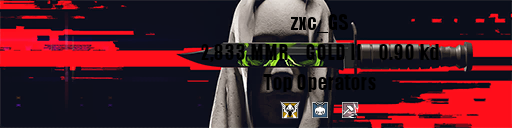
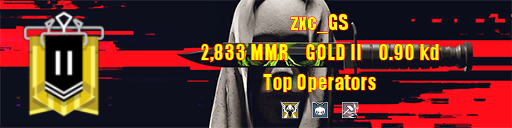
dev

diff --git a/commands/bage.js b/commands/bage.js
@@ -1,0 +1,149 @@
+const { MessageActionRow, MessageButton, MessageAttachment } = require("discord.js");
+const fs = require('fs');
+var config = require('../config.json');
+const fetch = require('node-fetch');
+const { SlashCommandBuilder } = require('@discordjs/builders');
+
+module.exports = {
+	data: new SlashCommandBuilder()
+		.setName('bage')
+		.setDescription('bage description')
+        .addSubcommandGroup(scg => 
+            scg
+                .setName('list')
+                .setDescription('Описание')
+                .addSubcommand(sc =>
+                    sc
+                        .setName('show')
+                        .setDescription('Выводит список доступных фонов'))
+                .addSubcommand(sc =>
+                    sc
+                        .setName('add')
+                        .setDescription('Добавляет фон в список')
+                        .addStringOption(option =>
+                            option
+                                .setName('ссылка')
+                                .setDescription('Ссылка на картинку (png/jpg/gif)')
+                                .setRequired(true))
+                )
+        )
+        .addSubcommandGroup(scg => 
+            scg
+                .setName('set')
+                .setDescription('Описание')
+                .addSubcommand(sc =>
+                    sc
+                        .setName('color')
+                        .setDescription('Устанавливает цвет текста')
+                        .addStringOption(option =>
+                            option
+                                .setName('цвет')
+                                .setDescription('Цвет текста (на английском)')
+                                .setRequired(true)))
+                .addSubcommand(sc =>
+                    sc
+                        .setName('border')
+                        .setDescription('Устанавливает цвет обводки')
+                        .addStringOption(option =>
+                            option
+                                .setName('цвет')
+                                .setDescription('Цвет обводки текста (на английском)')
+                                .setRequired(true)))
+                .addSubcommand(sc =>
+                    sc
+                        .setName('side')
+                        .setDescription('С какой стороны расположить изображение ранга')
+                        .addStringOption(option =>
+                            option
+                                .setName('сторона')
+                                .setDescription('Цвет текста (на английском)')
+                                .setRequired(true)
+                                .addChoice('left', 'left')
+                                .addChoice('right', 'right')))
+        ),
+	async execute(interaction) {
+        if (interaction.options.getSubcommandGroup() === "list")
+        {
+            if (interaction.options.getSubcommand() === "show")
+            {
+                if (!fs.existsSync('./source/bages/available') || fs.readdirSync('./source/bages/available').length < 1)
+                    return interaction.reply("Список фонов пуст");
+                const bages = fs.readdirSync('./source/bages/available');
+                await interaction.reply({content: "Список доступных фонов:"});
+                for (let i of bages)
+                {
+                    const row = new MessageActionRow()
+                        .addComponents(
+                            new MessageButton()
+                                .setCustomId(i)
+                                .setLabel('Выбрать')
+                                .setStyle('PRIMARY'),
+                        )
+                    await interaction.channel.send({content: i.slice(0, i.lastIndexOf('.')), files: [`./source/bages/available/${i}`], components: [row]});
+                }
+            }
+            else if (interaction.options.getSubcommand() === "add")
+            {
+                let indexes = fs.readdirSync('./source/bages/available/').map(file => file.match(/\d+/)[0]);
+                let max_ind = Math.max(...indexes);
+                let name = `ui_playercard_${max_ind + 1}`;
+                let url = interaction.options.getString('ссылка');
+                let type;
+                if (url.includes('.gif') || url.includes('.png') || url.includes('.jpg') || url.includes('.jpeg'))
+                    type = url.slice(url.lastIndexOf("."));
+                /* if (url.includes('.gif'))
+                    type = '.gif';
+                else if (url.includes('.png'))
+                    type =  '.png';
+                else if (url.includes('.jpg'))
+                    type = '.jpg';
+                else if (url.includes('.jpeg'))
+                    type = '.jpeg'; */
+                else
+                    return await interaction.reply({content: 'Некорректная ссылка! Ссылка содержит .gif / .png / .jpg / .jpeg ?', ephemeral: true});
+                await fetch(url).then(res => res.body.pipe(fs.createWriteStream(`./source/bages/available/${name}${type}`)));
+                await interaction.reply({content: `Фон ${name} успешно добавлен.`, ephemeral: true});
+            }
+        }
+        else if (interaction.options.getSubcommandGroup() === "set")
+        {
+            if (interaction.options.getSubcommand() === "color")
+            {
+                let color = interaction.options.getString('цвет');
+                console.log(color);
+                let user_id = interaction.user.id;
+                for (let i in config.guilds[0].players)
+                {
+                    if (config.guilds[0].players[i].discord_id === user_id)
+                    config.guilds[0].players[i].bage.text_color = color;
+                }
+                fs.writeFileSync('./config.json', JSON.stringify(config, null, '\t'));
+                await interaction.reply({content: `Вы установили цвет текста на ${color}.`, ephemeral: true})
+            }
+            else if (interaction.options.getSubcommand() === "border")
+            {
+                let color = await interaction.options.getString('цвет');
+                let user_id = interaction.user.id;
+                for (let i in config.guilds[0].players)
+                {
+                    if (config.guilds[0].players[i].discord_id === user_id)
+                    config.guilds[0].players[i].bage.text_border = color;
+                }
+                fs.writeFileSync('./config.json', JSON.stringify(config, null, '\t'))
+                await interaction.reply({content: `Вы установили цвет рамки на ${color}.`, ephemeral: true})
+            }
+            else if (interaction.options.getSubcommand() === "side")
+            {
+                let _side = interaction.options.getString('сторона')
+                let user_id = interaction.user.id
+                for (let i in config.guilds[0].players)
+                {
+                    if (config.guilds[0].players[i].discord_id === user_id)
+                    config.guilds[0].players[i].bage.rank_image_side = _side
+                }
+                fs.writeFileSync('./config.json', JSON.stringify(config, null, '\t'));
+                await interaction.reply({content: `Вы изменили сторону изображения ранга на ${_side}.`, ephemeral: true})
+            }
+        }
+	},
+};

diff --git a/modules/statistics.js b/modules/statistics.js
@@ -7,7 +7,6 @@ const fetch = require('node-fetch');
 const config = require('../config.json');
 const GIFEncoder = require('gif-encoder-2');
 const gifFrames = require('gif-frames');
-const { discord_token } = require('../secret.json');
 let global_client;
 // Canvas.registerFont('./source/fonts/Montserrat-Regular.ttf', { family: 'Montserrat_Regular' });
 
@@ -23,11 +22,9 @@ function GetStatistics(client)
                 GetProfiles(uplay_names[i], function(stats) {
                     map.set(uplay_names[i], stats);
                     MakeCanvas(map.get(uplay_names[i]), async function(_name) {
-                        console.log(_name)
                         // let file = await fs.readdirSync(`./source/bages/current`).filter(file => file.startsWith(uplay_names[i]))[0];
                         let attachment = new MessageAttachment(`./source/bages/current/${_name}`);
                         await client.channels.cache.get(config.guilds[0].channels.statistics).send({ files: [attachment] });
-                        console.log('bg sended')
                     })
                 })
             }
@@ -94,8 +91,7 @@ async function MakeCanvas(map, callback)
     const background_file = await fs.readdirSync(`./source/bages/available`).filter(file => file.startsWith(background_name))[0];
     const background_type = background_file.slice(background_file.lastIndexOf('.') + 1);
     const background_default = await fs.readdirSync(`./source/bages/available`).filter(file => file.startsWith(`ui_playercard_0`))[0];
-    console.log(background_file, background_type);
-    PreloadResources(map, async function() {
+    await PreloadResources(map, async function() {
         if (background_type == "png")
         {
             const width = 512, height = 128;
@@ -123,7 +119,12 @@ async function MakeCanvas(map, callback)
             // ctx.font = '20px';
             // ctx.font = '20px Courier';
             ctx.font = '20px Impact';
-            ctx.fillStyle = "black";
+            ctx.fillStyle = config.guilds[0].players.find(p => p.uplay_name == map.name).bage.text_color || "black";
+            // Обводка текста
+            ctx.strokeStyle = config.guilds[0].players.find(p => p.uplay_name == map.name).bage.text_border || "transparent";
+            ctx.strokeText(name, (width - rank_image_size ) / 2 - ctx.measureText(name).width / 2, 30);
+            ctx.strokeText(statistic, (width - rank_image_size) / 2 - ctx.measureText(statistic).width / 2, 60);
+            ctx.strokeText(ops_header, (width - rank_image_size) / 2 - ctx.measureText(ops_header).width / 2, 90);
             // Сам текст
             ctx.fillText(name, (width - rank_image_size) / 2 - ctx.measureText(name).width / 2, 30);
             ctx.fillText(statistic, (width - rank_image_size) / 2 - ctx.measureText(statistic).width / 2, 60);
@@ -138,9 +139,7 @@ async function MakeCanvas(map, callback)
         else
         {
             CreateFrames(background_file, function() {
-                console.log("frames created")
                 MakeAGif(map, function() {
-                    console.log("gif created");
                     DeleteFrames(function() {
                         return callback(`${map.name}.${background_type}`);
                     })
@@ -197,8 +196,7 @@ async function MakeAGif(map, callback)
     const third_op = await Canvas.loadImage(`./source/operators/${map.ops[2].slice(map.ops[2].lastIndexOf('/') + 1, map.ops[2].lastIndexOf('.'))}.png`);
     // ctx.font = '20px Comfortaa-Bold';
     ctx.font = '20px Impact';
-    ctx.fillStyle = "black";
-    // ctx.fillStyle = config.bagesSettings[map.name].color || config.bagesSettings.default.color
+    ctx.fillStyle = config.guilds[0].players.find(p => p.uplay_name == map.name).bage.text_color || "black";
 
     let sorted = [];
     let files = fs.readdirSync('./source/bages/frames/').filter(file => file.endsWith('.png'));
@@ -209,17 +207,16 @@ async function MakeAGif(map, callback)
     for (let i of files)
     {
         const image = await Canvas.loadImage(`./source/bages/frames/${i}`);
-        console.log(image);
         ctx.drawImage(image, 0, 0, width, height);
         if (rank_position == "right")
             await ctx.drawImage(rank_image, width - rank_image_size, 0, rank_image_size, rank_image_size);
         else if (rank_position == "left")
             await ctx.drawImage(rank_image, 0, 0, -rank_image_size, -rank_image_size);
         // Обводка текста
-        /* ctx.strokeStyle = config.bagesSettings[name].border || config.bagesSettings.default.border
-        ctx.strokeText(name, (width - rank_image_size ) / 2 - ctx.measureText(name).width / 2, 30)
-        ctx.strokeText(statistic, (width - rank_image_size) / 2 - ctx.measureText(statistic).width / 2, 60)
-        ctx.strokeText(ops_header, (width - rank_image_size) / 2 - ctx.measureText(ops_header).width / 2, 90) */
+        ctx.strokeStyle = config.guilds[0].players.find(p => p.uplay_name == map.name).bage.text_border || "transparent";
+        ctx.strokeText(name, (width - rank_image_size ) / 2 - ctx.measureText(name).width / 2, 30);
+        ctx.strokeText(statistic, (width - rank_image_size) / 2 - ctx.measureText(statistic).width / 2, 60);
+        ctx.strokeText(ops_header, (width - rank_image_size) / 2 - ctx.measureText(ops_header).width / 2, 90);
         // Сам текст
         ctx.fillText(name, (width - rank_image_size) / 2 - ctx.measureText(name).width / 2, 30);
         ctx.fillText(statistic, (width - rank_image_size) / 2 - ctx.measureText(statistic).width / 2, 60);
@@ -230,7 +227,6 @@ async function MakeAGif(map, callback)
         encoder.addFrame(ctx);
     }
     encoder.finish();
-    // const buffer = await encoder.out.getData();
     fs.writeFileSync(`./source/bages/current/${map.name}.gif`, encoder.out.getData());
     return callback();
 }

diff --git a/commands/groups.js b/commands/groups.js
@@ -1,0 +1,72 @@
+const { SlashCommandBuilder } = require('@discordjs/builders');
+const fs = require('fs');
+const fetch = require('node-fetch');
+let config = require('../config.json');
+const { vk_token } = require('../secret.json');
+
+module.exports = {
+	data: new SlashCommandBuilder()
+		.setName('groups')
+		.setDescription('groups description')
+		.addSubcommand(sc =>
+            sc
+                .setName('list')
+                .setDescription('Показывает список текущих групп'))
+        .addSubcommand(sc =>
+            sc
+                .setName('add')
+                .setDescription('Добавляет группу в список')
+                .addStringOption(option =>
+                    option
+                        .setName('ссылка')
+                        .setDescription('Полная ссылка на группу')
+                        .setRequired(true))
+		)
+		.addSubcommand(sc =>
+            sc
+                .setName('remove')
+                .setDescription('Удаляет группу из списка')
+                .addStringOption(option =>
+                    option
+                        .setName('имя')
+                        .setDescription('Имя группы в списке')
+                        .setRequired(true))
+		),
+	async execute(interaction) {
+		if (interaction.options.getSubcommand() === "list")
+		{
+			let groups = config.guilds[0].groups;
+			return await interaction.reply({content: `Группы, которые бот мониторит в данный момент: ${groups}`});
+		}
+		else if (interaction.options.getSubcommand() === "add")
+		{
+			let url = interaction.options.getString('ссылка');
+			let name = url.slice(url.lastIndexOf('/') + 1);
+			let groups = config.guilds[0].groups;
+			let items = await fetch(`https://api.vk.com/method/wall.get?domain=${name}&count=5&v=5.131&access_token=${process.env.vkToken || vk_token}`).then(data => data.json()).then(json => json.response.items.filter(i => !i.is_pinned));
+			if (items.length < 1)
+				return await interaction.reply({content: `Ошибка! Проверь корректность ссылки. Пример рабочей ссылки: <https://vk.com/r6siege> или vk.com/r6siege`, ephemeral: true});
+			if (groups.includes(name))
+				return await interaction.reply({content: `Ошибка! Данная группа уже мониторися`, ephemeral: true});
+            // console.log()
+			config.guilds[0].groups.push(name);
+            // fs.writeFileSync('../config.json', JSON.stringify(config, null, '\t'));
+            fs.writeFile('./config.json', JSON.stringify(config, null, '\t'), async function() {
+                return await interaction.reply({content: `Группа ${name} успешно добавлена в мониторинг!`});
+            });
+		}
+		else if (interaction.options.getSubcommand() === "remove")
+		{
+			let name = interaction.options.getString('имя');
+			let groups = config.guilds[0].groups;
+			if (!groups.includes(name))
+				return await interaction.reply({content: `Ошибка! Данная группа не мониторится ботом`, ephemeral: true});
+			if (groups.length < 1)
+				return await interaction.reply({content: `Ошибка! Список пуст`, ephemeral: true});
+			config.guilds[0].groups.splice(config.guilds[0].groups.indexOf(name), 1);
+            fs.writeFile('./config.json', JSON.stringify(config, null, '\t'), async function() {
+                return await interaction.reply({content: `Группа ${name} удалена из мониторинга!`});
+            });
+		}
+	},
+}

diff --git a/index.js b/index.js
@@ -4,19 +4,22 @@ const { MessageAttachment, Client, Intents, Message } = require('discord.js');
 const client = new Client({ intents: [Intents.FLAGS.GUILDS, Intents.FLAGS.GUILD_MESSAGES] });
 const commands = require('./modules/load_commands.js')(client);
 const fs = require('fs');
-const { registerFont } = require('canvas');
+const newsletter = require('./modules/newsletter.js');
+const statistics = require('./modules/statistics.js');
 // const secret = require('./secret.json');
 //
 
 client.on('ready', () => {
     console.log('Ready!');
+    console.log(client.commands)
 
+    statistics(client);
     /* setInterval(() => {
-        require('./modules/newsletter.js')(client);
+        newsletter(client);
     }, 1000 * 5); */
     setInterval(() => {
-        require('./modules/statistics.js')(client);
-    }, 1000 * 10);
+        statistics(client);
+    }, 1000 * 60);
 });
 
 client.on('interactionCreate', async interaction => {

diff --git a/commands/stop.js b/commands/stop.js
@@ -1,0 +1,10 @@
+const { SlashCommandBuilder } = require('@discordjs/builders');
+
+module.exports = {
+	data: new SlashCommandBuilder()
+		.setName('stop')
+		.setDescription('Останавливает работу бота'),
+	async execute(interaction) {
+		await interaction.reply({ content: 'Бот выключен!', ephemeral: true });
+	},
+};
